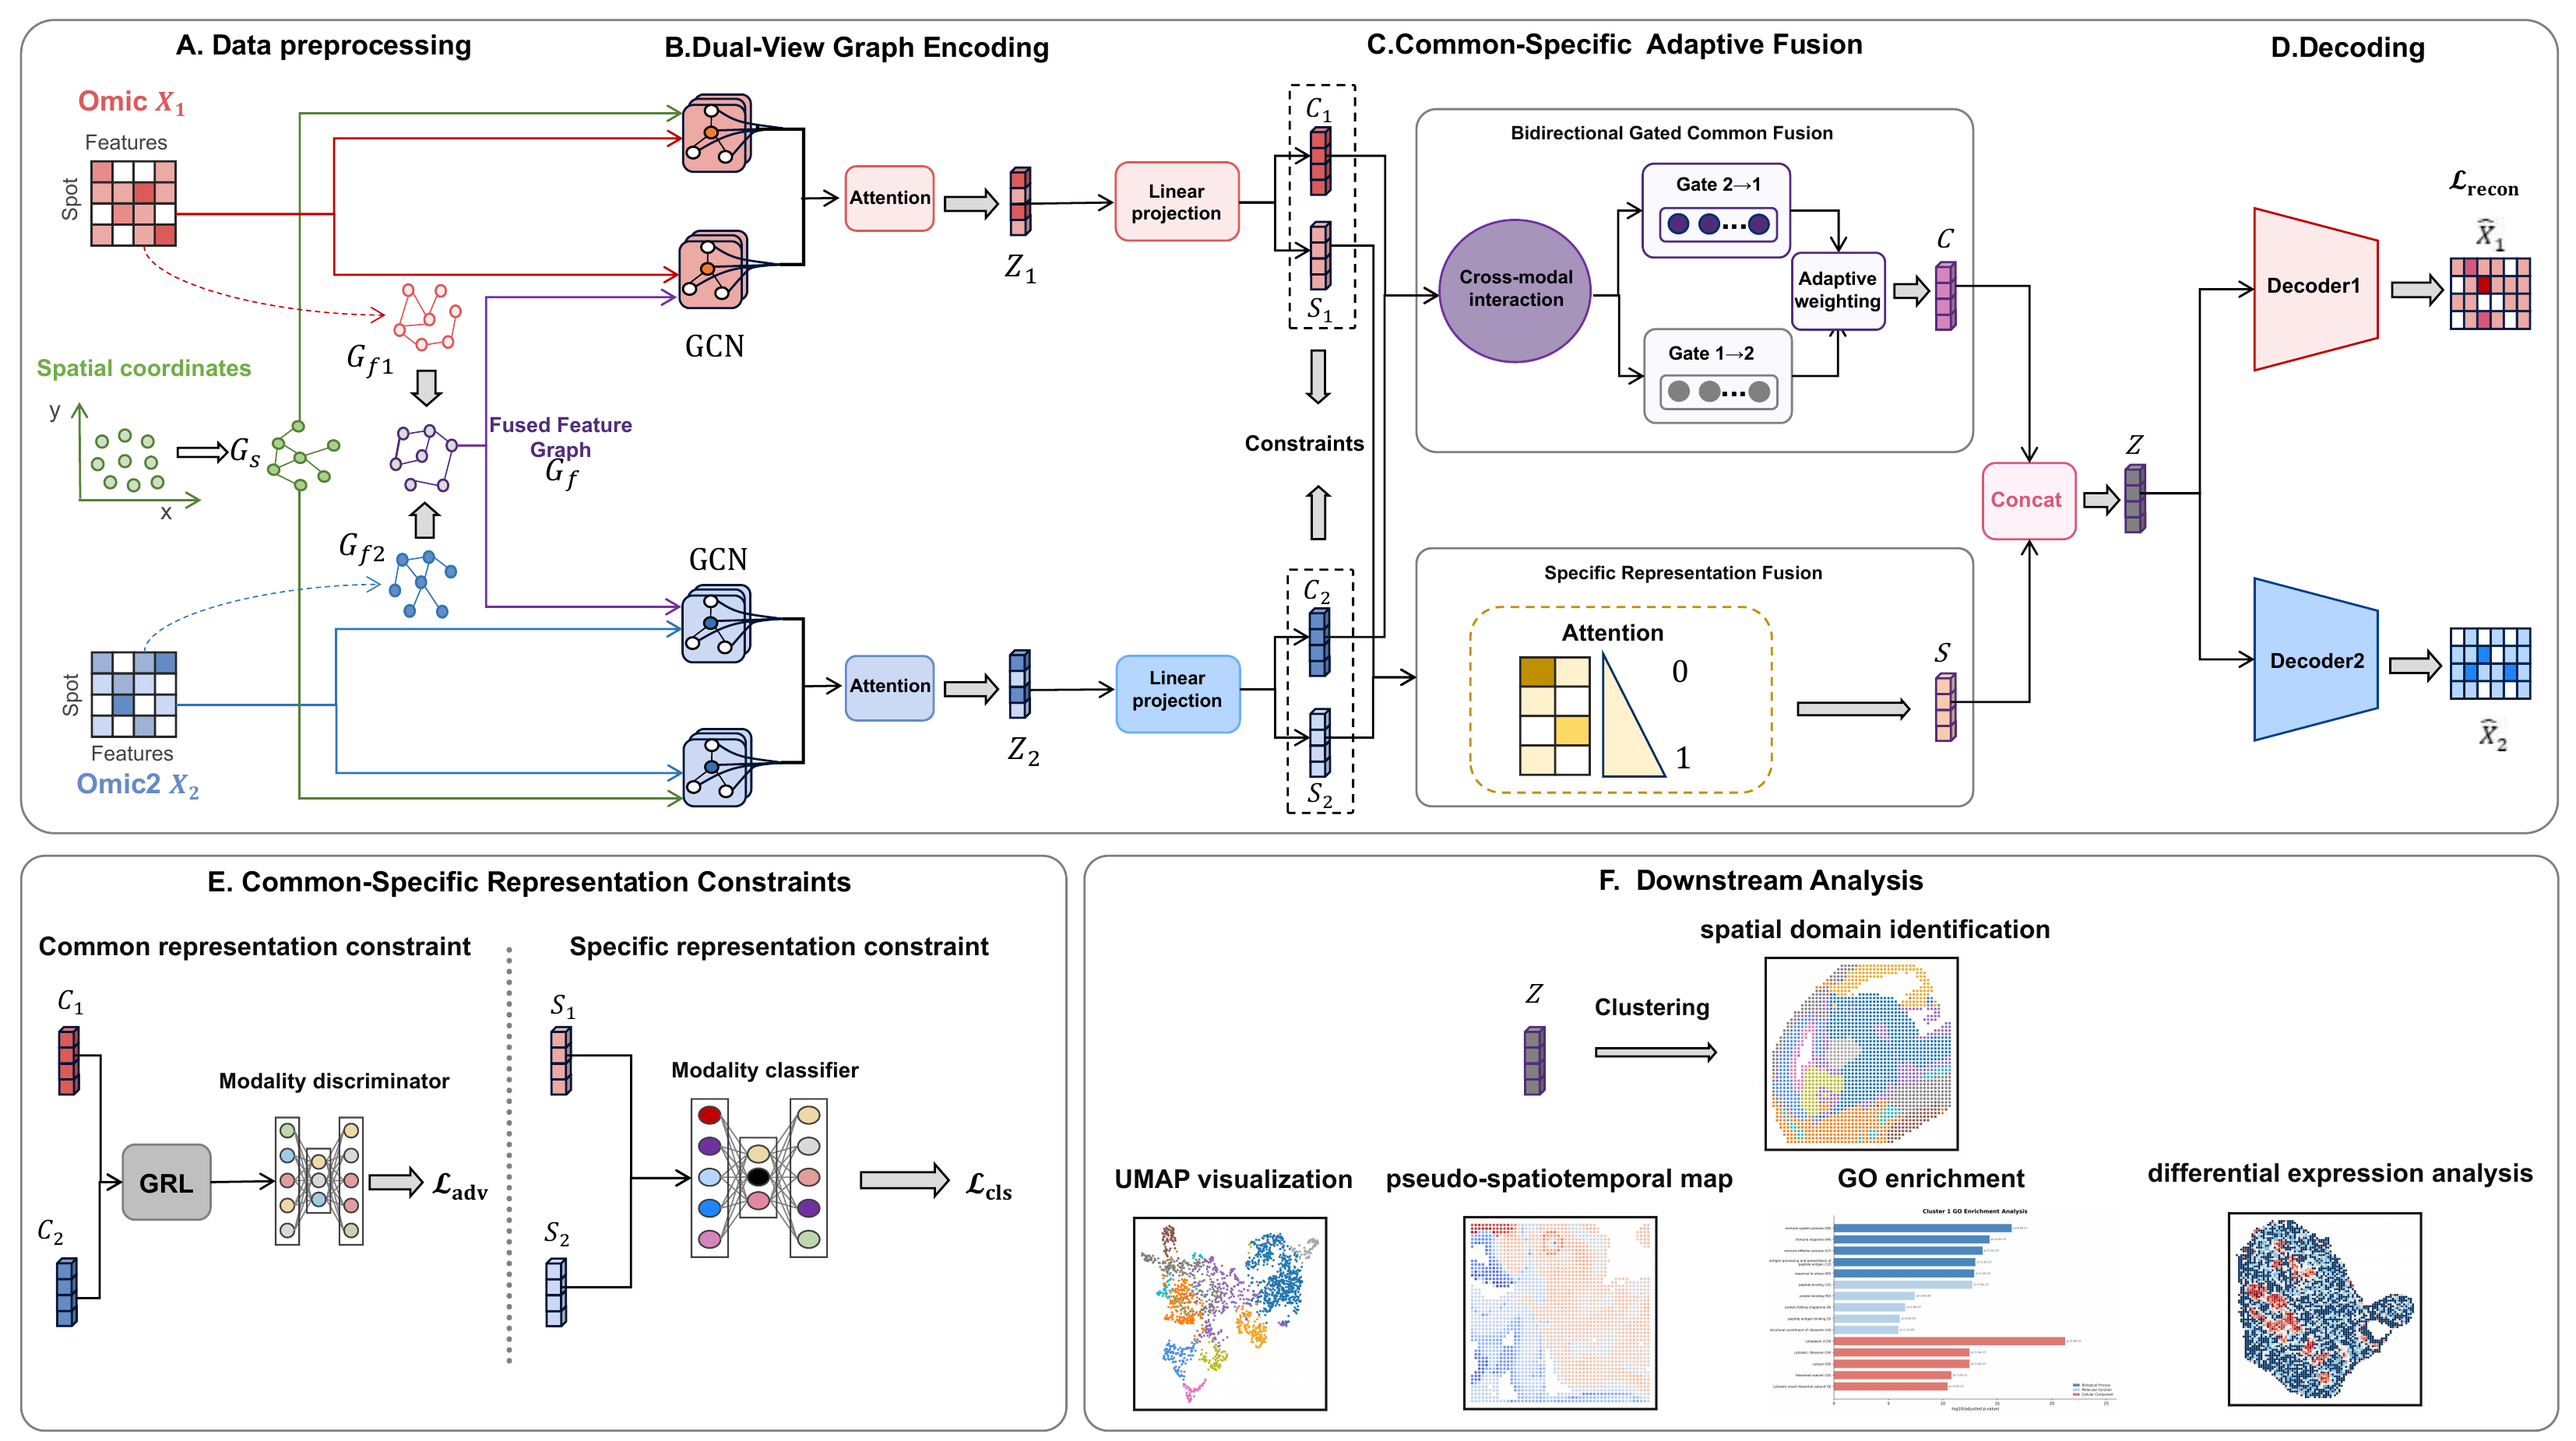
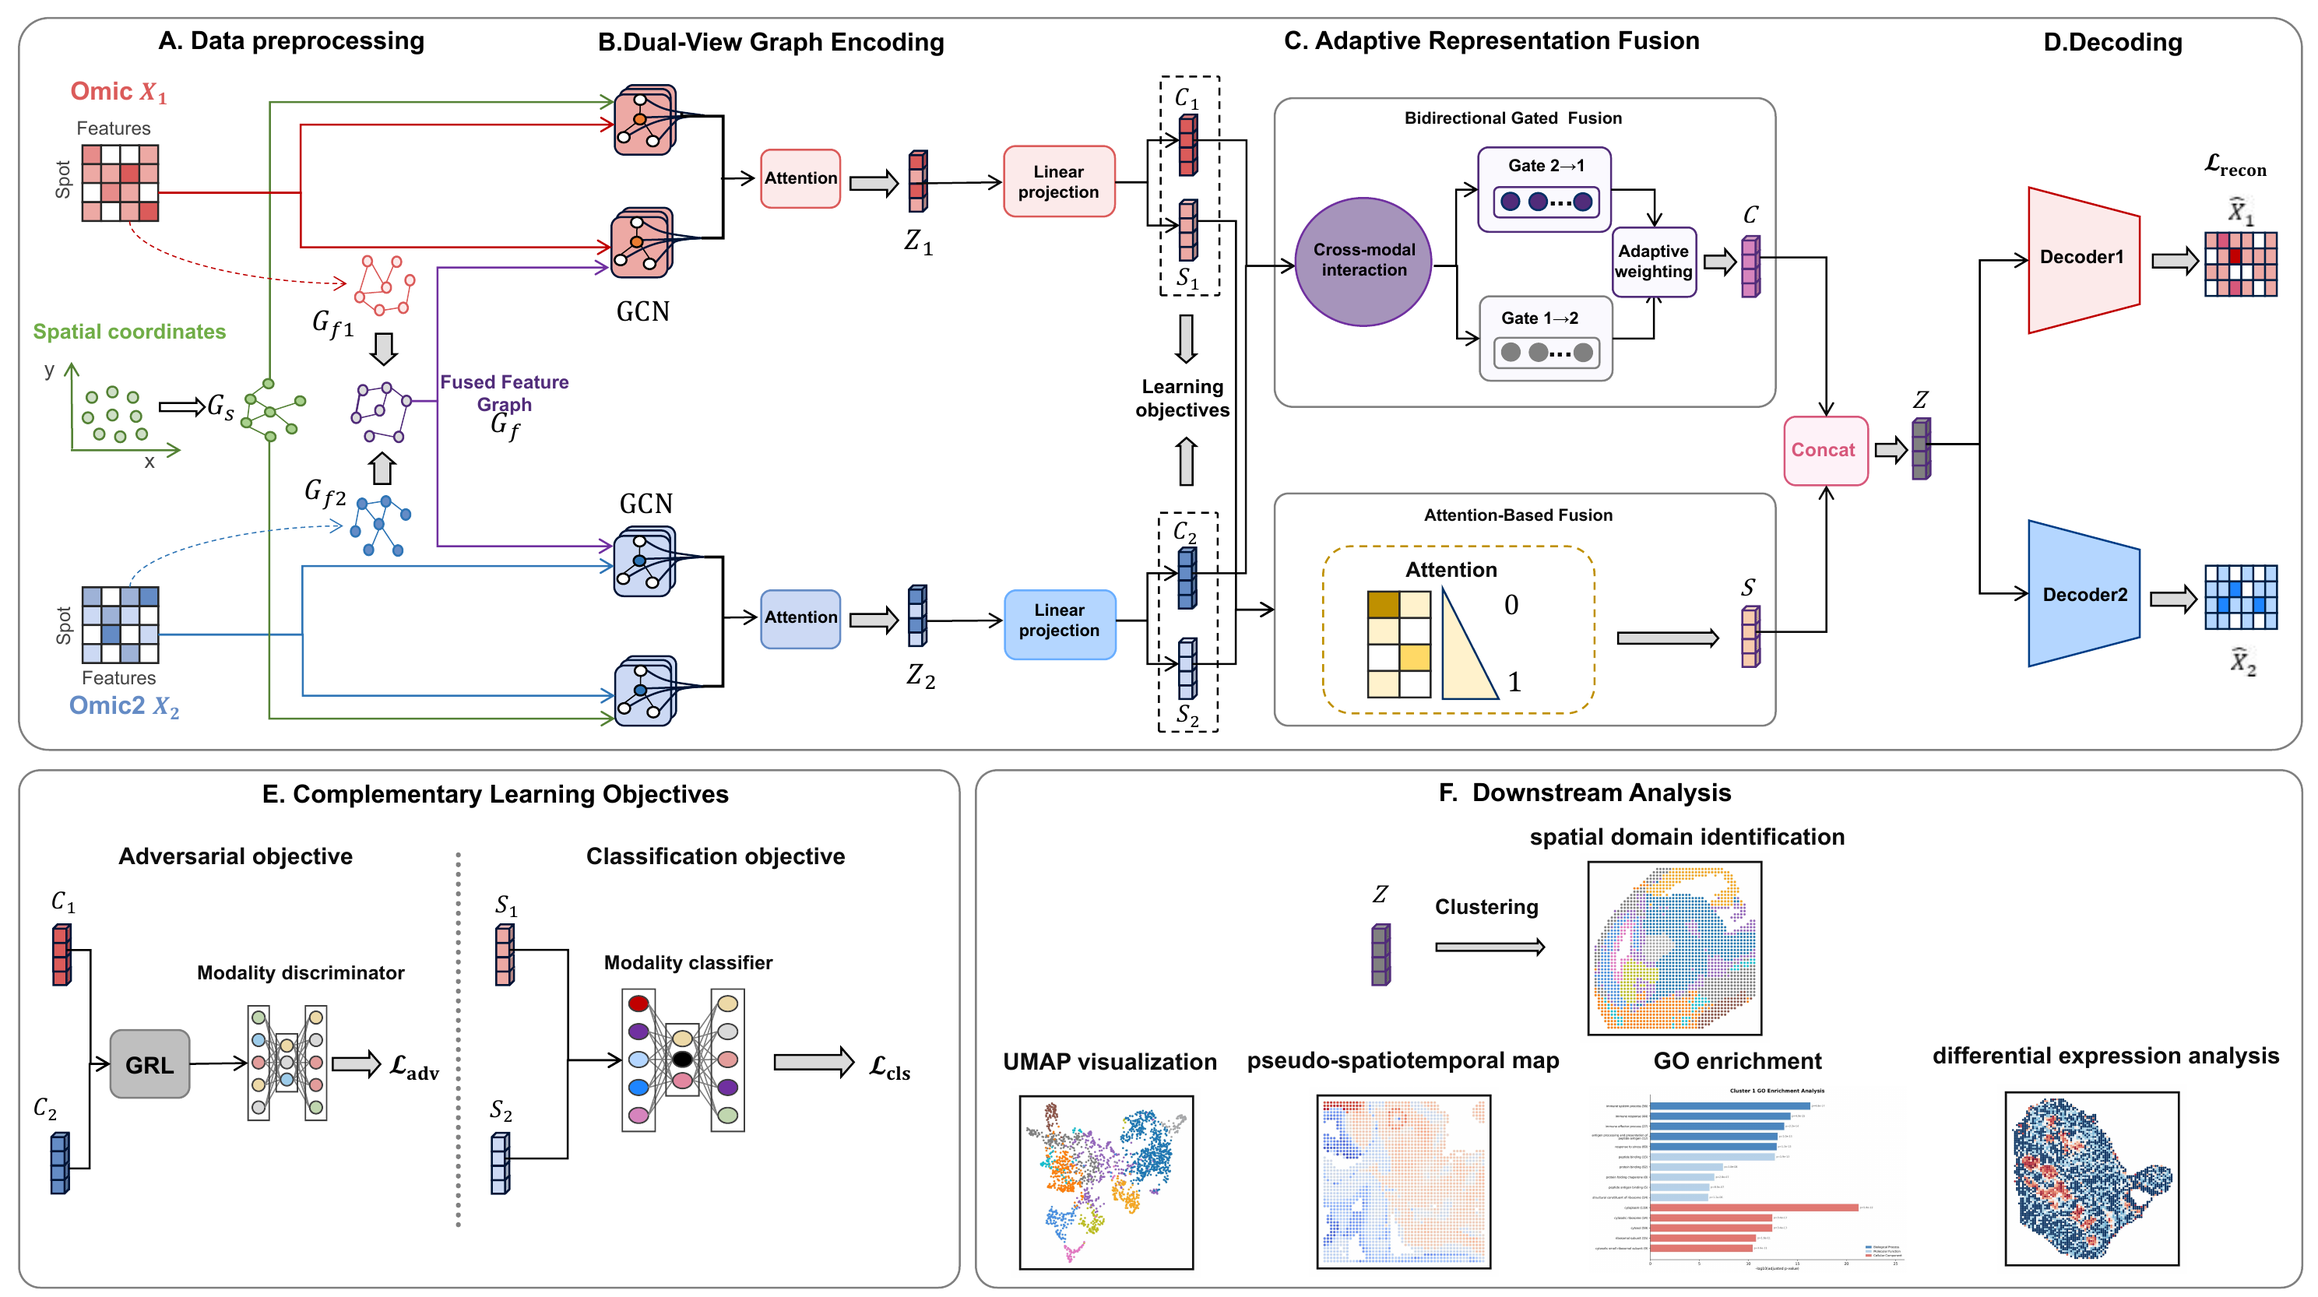
Rename project to SpaDVRL

diff --git a/SpaDVRL/trainer.py b/SpaDVRL/trainer.py
@@ -4,11 +4,11 @@ from tqdm import tqdm
 
 from .base_trainer import _BaseTrainer
 
-from .model import _SpaMCSRLCoreModel, SpaMCSRLModel
+from .model import _SpaDVRLCoreModel, SpaDVRLModel
 
 
-class _TrainSpaMCSRLCore(_BaseTrainer):
-    """Trainer for the formal SpaMCSRL configuration.
+class _TrainSpaDVRLCore(_BaseTrainer):
+    """Trainer for the formal SpaDVRL configuration.
 
     Fixed design:
       - no cross-modal correspondence loss;
@@ -21,8 +21,8 @@ class _TrainSpaMCSRLCore(_BaseTrainer):
     SHARED_ADV_WEIGHT = 1.0
     PRIVATE_CLS_WEIGHT = 0.3
     DISENTANGLE_WEIGHT = 1.0
-    MODEL_VERSION = "SpaMCSRL_common_specific_representation_learning"
-    MODEL_CLASS = _SpaMCSRLCoreModel
+    MODEL_VERSION = "SpaDVRL_adaptive_dual_view_representation_learning"
+    MODEL_CLASS = _SpaDVRLCoreModel
 
     def __init__(self, *args, **kwargs):
         locked = {
@@ -40,7 +40,7 @@ class _TrainSpaMCSRLCore(_BaseTrainer):
         for name, expected in locked.items():
             if name in kwargs and kwargs[name] != expected:
                 raise ValueError(
-                    f"{name} is locked to {expected!r} in TrainSpaMCSRL."
+                    f"{name} is locked to {expected!r} in TrainSpaDVRL."
                 )
         kwargs.update(locked)
         super().__init__(*args, **kwargs)
@@ -157,7 +157,7 @@ class _TrainSpaMCSRLCore(_BaseTrainer):
             loss.backward()
             self.optimizer.step()
 
-        print("SpaMCSRL training finished!\n")
+        print("SpaDVRL training finished!\n")
         with torch.no_grad():
             self.model.eval()
             results = self.model(
@@ -186,7 +186,7 @@ class _TrainSpaMCSRLCore(_BaseTrainer):
                 eps=1e-12,
                 dim=1,
             ),
-            "SpaMCSRL": F.normalize(
+            "SpaDVRL": F.normalize(
                 results["emb_latent_combined"], p=2, eps=1e-12, dim=1
             ),
             "emb_shared_combined": F.normalize(
@@ -260,8 +260,8 @@ class _TrainSpaMCSRLCore(_BaseTrainer):
         return output
 
 
-class TrainSpaMCSRL(_TrainSpaMCSRLCore):
-    """Trainer for the released SpaMCSRL model described in the manuscript."""
+class TrainSpaDVRL(_TrainSpaDVRLCore):
+    """Trainer for the released SpaDVRL model described in the manuscript."""
 
-    MODEL_VERSION = "SpaMCSRL_final_Z_reconstruction"
-    MODEL_CLASS = SpaMCSRLModel
+    MODEL_VERSION = "SpaDVRL_final_Z_reconstruction"
+    MODEL_CLASS = SpaDVRLModel

diff --git a/SpaDVRL/experiment.py b/SpaDVRL/experiment.py
@@ -1,4 +1,4 @@
-"""Single-seed experiment pipeline for public SpaMCSRL examples."""
+"""Single-seed experiment pipeline for public SpaDVRL examples."""
 
 from __future__ import annotations
 
@@ -20,7 +20,7 @@ from scipy.optimize import linear_sum_assignment
 
 from .datasets import set_seed
 from .evaluation import clustering_metrics, mclust_eee
-from .trainer import TrainSpaMCSRL
+from .trainer import TrainSpaDVRL
 
 
 SEED = 2024
@@ -205,7 +205,7 @@ def _plot_embedding(
     axis.set_box_aspect(1)
     if equal_aspect:
         axis.set_aspect("equal")
-    _style_axis(axis, "SpaMCSRL")
+    _style_axis(axis, "SpaDVRL")
     _add_legend(axis, legend, palette)
     figure.subplots_adjust(left=0.05, right=0.78, bottom=0.05, top=0.92)
     _save_figure(figure, output_dir, stem)
@@ -227,7 +227,7 @@ def run_seed2024_experiment(
     umap_seed: int,
     device_name: str,
 ) -> None:
-    """Train SpaMCSRL once with seed 2024 and save clustering and UMAP plots."""
+    """Train SpaDVRL once with seed 2024 and save clustering and UMAP plots."""
 
     output_dir.mkdir(parents=True, exist_ok=True)
     set_seed(SEED)
@@ -236,7 +236,7 @@ def run_seed2024_experiment(
         device_name if torch.cuda.is_available() and device_name != "cpu" else "cpu"
     )
 
-    trainer = TrainSpaMCSRL(
+    trainer = TrainSpaDVRL(
         data=data,
         datatype=datatype,
         device=device,
@@ -255,7 +255,7 @@ def run_seed2024_experiment(
         feature_fusion_mode="equal",
     )
     result = trainer.train()
-    embedding = np.asarray(result["SpaMCSRL"], dtype=np.float32)
+    embedding = np.asarray(result["SpaDVRL"], dtype=np.float32)
     labels = mclust_eee(embedding, n_clusters, SEED)
     metrics = clustering_metrics(truth, labels)
 
@@ -330,7 +330,7 @@ def run_seed2024_experiment(
     ) as handle:
         json.dump(configuration, handle, indent=2)
     np.savez_compressed(
-        output_dir / f"{stem}_SpaMCSRL_seed2024.npz",
+        output_dir / f"{stem}_SpaDVRL_seed2024.npz",
         embedding=embedding,
         labels=labels,
         truth=np.asarray(truth),

diff --git a/SpaDVRL/model.py b/SpaDVRL/model.py
@@ -3,8 +3,8 @@ import torch
 from .backbone import Encoder_overall, grad_reverse
 
 
-class _SpaMCSRLCoreModel(Encoder_overall):
-    """Formal SpaMCSRL architecture with the retired branches removed.
+class _SpaDVRLCoreModel(Encoder_overall):
+    """Formal SpaDVRL architecture with the retired branches removed.
 
     The retained modules are initialized through the original constructor before
     inactive residual modules are deleted. This preserves initialization parity
@@ -190,7 +190,7 @@ class _SpaMCSRLCoreModel(Encoder_overall):
         }
 
 
-class SpaMCSRLModel(_SpaMCSRLCoreModel):
+class SpaDVRLModel(_SpaDVRLCoreModel):
     """Final model: both modality-specific decoders reconstruct from final Z."""
 
     def forward(self, *args, **kwargs):

diff --git a/SpaDVRL/base_trainer.py b/SpaDVRL/base_trainer.py
@@ -317,7 +317,7 @@ class _BaseTrainer:
         output = {'emb_latent_omics1': emb_omics1.detach().cpu().numpy(),
                   'emb_latent_omics2': emb_omics2.detach().cpu().numpy(),
                   'emb_proj_align': emb_proj_align.detach().cpu().numpy(),
-                  'SpaMCSRL': emb_combined.detach().cpu().numpy(),
+                  'SpaDVRL': emb_combined.detach().cpu().numpy(),
                   'emb_shared_combined': emb_shared.detach().cpu().numpy(),
                   'emb_private_combined': emb_private.detach().cpu().numpy(),
                   'emb_shared_omics1': emb_shared_omics1.detach().cpu().numpy(),

diff --git a/scripts/run_simulation.py b/scripts/run_simulation.py
@@ -1,4 +1,4 @@
-"""Reproduce the seed-2024 SpaMCSRL simulation clustering and UMAP plots."""
+"""Reproduce the seed-2024 SpaDVRL simulation clustering and UMAP plots."""
 
 from __future__ import annotations
 
@@ -10,8 +10,8 @@ PROJECT_ROOT = Path(__file__).resolve().parents[1]
 if str(PROJECT_ROOT) not in sys.path:
     sys.path.insert(0, str(PROJECT_ROOT))
 
-from SpaMCSRL.datasets import prepare_simulation
-from SpaMCSRL.experiment import run_seed2024_experiment
+from SpaDVRL.datasets import prepare_simulation
+from SpaDVRL.experiment import run_seed2024_experiment
 
 
 def main() -> None:

diff --git a/scripts/run_e155.py b/scripts/run_e155.py
@@ -1,4 +1,4 @@
-"""Reproduce the seed-2024 SpaMCSRL E15.5 clustering and UMAP plots."""
+"""Reproduce the seed-2024 SpaDVRL E15.5 clustering and UMAP plots."""
 
 from __future__ import annotations
 
@@ -10,8 +10,8 @@ PROJECT_ROOT = Path(__file__).resolve().parents[1]
 if str(PROJECT_ROOT) not in sys.path:
     sys.path.insert(0, str(PROJECT_ROOT))
 
-from SpaMCSRL.datasets import prepare_e155
-from SpaMCSRL.experiment import run_seed2024_experiment
+from SpaDVRL.datasets import prepare_e155
+from SpaDVRL.experiment import run_seed2024_experiment
 
 
 def main() -> None:

diff --git a/scripts/run_a1.py b/scripts/run_a1.py
@@ -1,4 +1,4 @@
-"""Reproduce the seed-2024 SpaMCSRL A1 clustering and UMAP plots."""
+"""Reproduce the seed-2024 SpaDVRL A1 clustering and UMAP plots."""
 
 from __future__ import annotations
 
@@ -10,8 +10,8 @@ PROJECT_ROOT = Path(__file__).resolve().parents[1]
 if str(PROJECT_ROOT) not in sys.path:
     sys.path.insert(0, str(PROJECT_ROOT))
 
-from SpaMCSRL.datasets import prepare_a1
-from SpaMCSRL.experiment import run_seed2024_experiment
+from SpaDVRL.datasets import prepare_a1
+from SpaDVRL.experiment import run_seed2024_experiment
 
 
 def main() -> None:

diff --git a/SpaDVRL/preprocess.py b/SpaDVRL/preprocess.py
@@ -223,7 +223,7 @@ def adjacent_matrix_preprocessing(adata_omics1, adata_omics2, feature_fusion_mod
                 feature_fusion_mode
             )
         )
-    # SpaMCSRL already has an explicit spatial branch. Here we keep the
+    # SpaDVRL already has an explicit spatial branch. Here we keep the
     # context branch focused on cross-omics molecular associations to avoid
     # double-counting spatial smoothing.
     if feature_fusion_mode == 'union':

diff --git a/SpaDVRL/backbone.py b/SpaDVRL/backbone.py
@@ -268,7 +268,7 @@ class Encoder_overall(Module):
 
 
 class ModalityAwareMambaFusion(Module):
-    """Adaptive fusion of two modality-common representations."""
+    """Bidirectional gated fusion of the adversarially guided representations."""
 
     SUPPORTED_MODES = ('conv_gate', 'bidirectional_gate', 'adaptive_weighting', 'concat')
     BIDIRECTIONAL_RESIDUAL_SCALE = 0.2

diff --git a/SpaDVRL/__init__.py b/SpaDVRL/__init__.py
@@ -1,0 +1,7 @@
+"""SpaDVRL: dual-view representation learning with adaptive fusion."""
+
+from .model import SpaDVRLModel
+from .trainer import TrainSpaDVRL
+
+__version__ = "1.0.0"
+__all__ = ["SpaDVRLModel", "TrainSpaDVRL"]

diff --git a/SpaDVRL/datasets.py b/SpaDVRL/datasets.py
@@ -1,4 +1,4 @@
-"""Dataset loaders matching the final SpaMCSRL experiments."""
+"""Dataset loaders matching the final SpaDVRL experiments."""
 
 from __future__ import annotations
 
